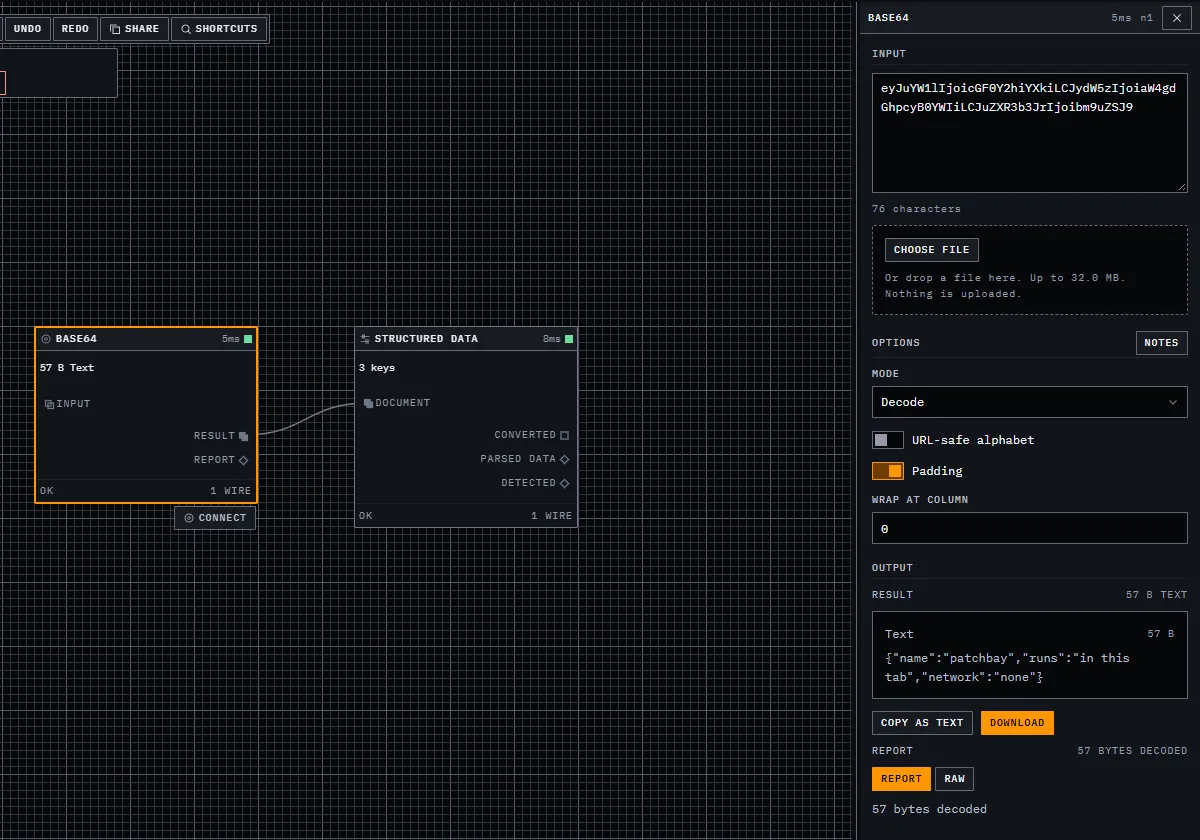
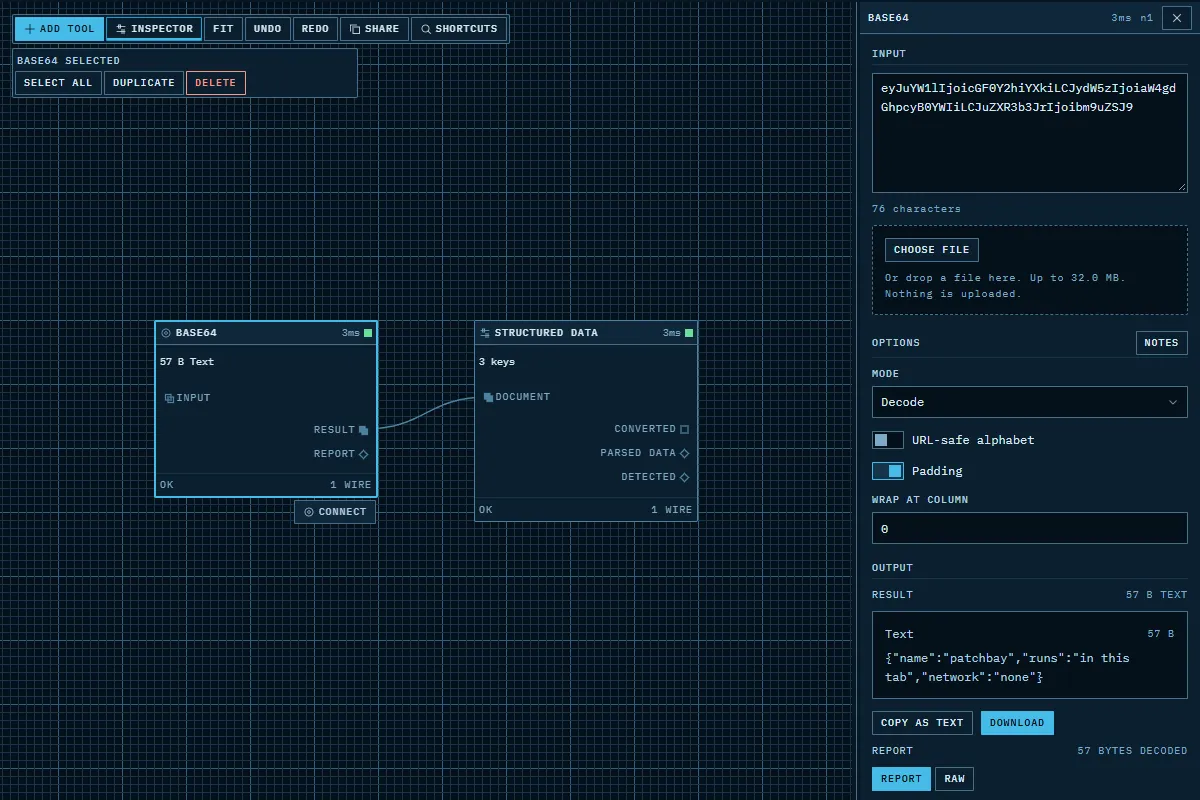
feat: UI round 1: trim homepage, wider Fuel Finder, blueprint Patchbay
- Homepage drops the Details spec sheet and About sections; numbers follow page order
- Fuel Finder recaptured at 1100px with list and map, filling its frame; $3.65 -> $3.40 to match
- Patchbay home and canvas recaptured in its default blueprint theme
- Frames no longer cap portrait captures at 400px; every image fills its frame
- /services apps column gets a "Custom · Quoted per project" title like the packages
- DESIGN_BRIEF.md 3.3, 3.4, 3.5 and 6 updated to match

diff --git a/src/data/packages.ts b/src/data/packages.ts
@@ -60,7 +60,7 @@ export const appsWork: string[] = [
 /** How app and contract work is priced. */
 export const appsPricing = `${pricing.apps.note}. Contract work by the day, the sprint or the project.`;
 
-/** Every price on one dot-leader sheet: the home page's Details and the local pages. */
+/** Every price on one dot-leader sheet, for the local pages. */
 export const priceRows = [
   { label: pricing.starter.label, value: `from ${formatPrice(pricing.starter.from)}` },
   { label: pricing.professional.label, value: `from ${formatPrice(pricing.professional.from)}` },

diff --git a/src/content/projects/fuel-finder.md b/src/content/projects/fuel-finder.md
@@ -23,7 +23,7 @@ seo:
   description: Fuel Finder, a web app I'm building that shows live NSW and ACT fuel prices cheapest first, on a list and a map, with four months of price history.
 screenshot:
   src: ../../assets/projects/fuel-finder.webp
-  alt: 'Fuel Finder in its light theme: results for Armidale, eight stations listed cheapest first with prices per litre.'
+  alt: 'Fuel Finder in its light theme: Unleaded 91 results for Armidale, eight stations listed cheapest first beside a map with each price on a tag.'
 gallery:
   - src: ../../assets/projects/fuel-finder-history.webp
     alt: "Fuel Finder's price history for Freedom Fuels Armidale in the light theme: 234.5 cents a litre now, above a chart of daily Unleaded 91 prices from July to late October with a gap marked No data."
@@ -43,7 +43,7 @@ I built Fuel Finder as something my family and I could use day to day. It's also
 A web app that answers one question: where's the cheapest fuel near me?
 
 - **Search** by suburb or postcode, or use your location, for any of ten fuels within 2 to 25 km. Results come back cheapest first, each with its price, distance and how old the price is.
-- **A one-line answer** above the list: what the cheapest is worth on a 50 litre fill compared with the average. In Armidale that day it was $3.65.
+- **A one-line answer** above the list: what the cheapest is worth on a 50 litre fill compared with the average. In Armidale that day it was $3.40.
 - **A map** of the same results with each price on a tag. Colour marks the cheapest, middle and dearest third, and the cheapest also say "Cheapest" in words, so colour is never the only signal.
 - **Price history** for each station: a chart of about four months of daily low, high and last prices, with every value also in a table.
 - Sort by nearest, filter by brand or by how old the price is, save favourites, and switch between light and dark.
